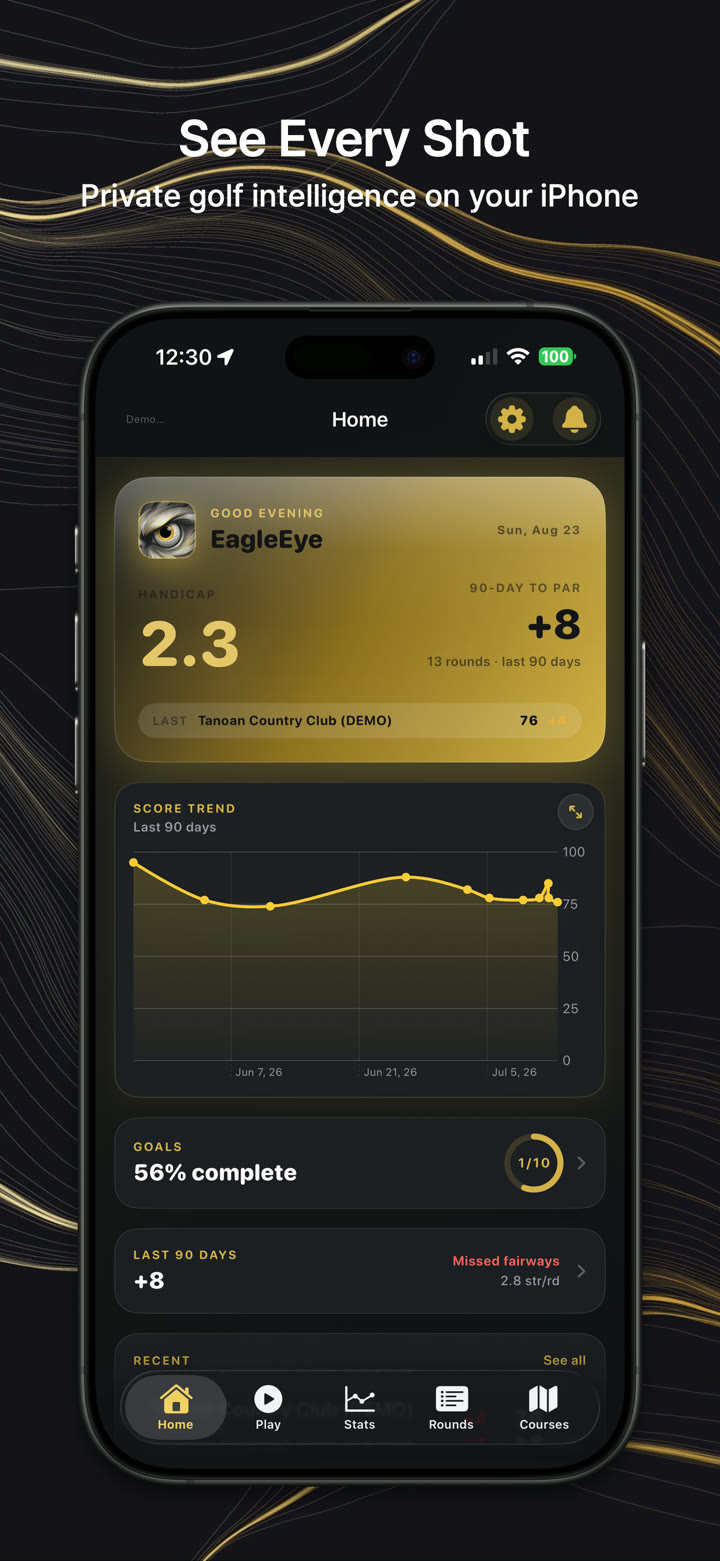
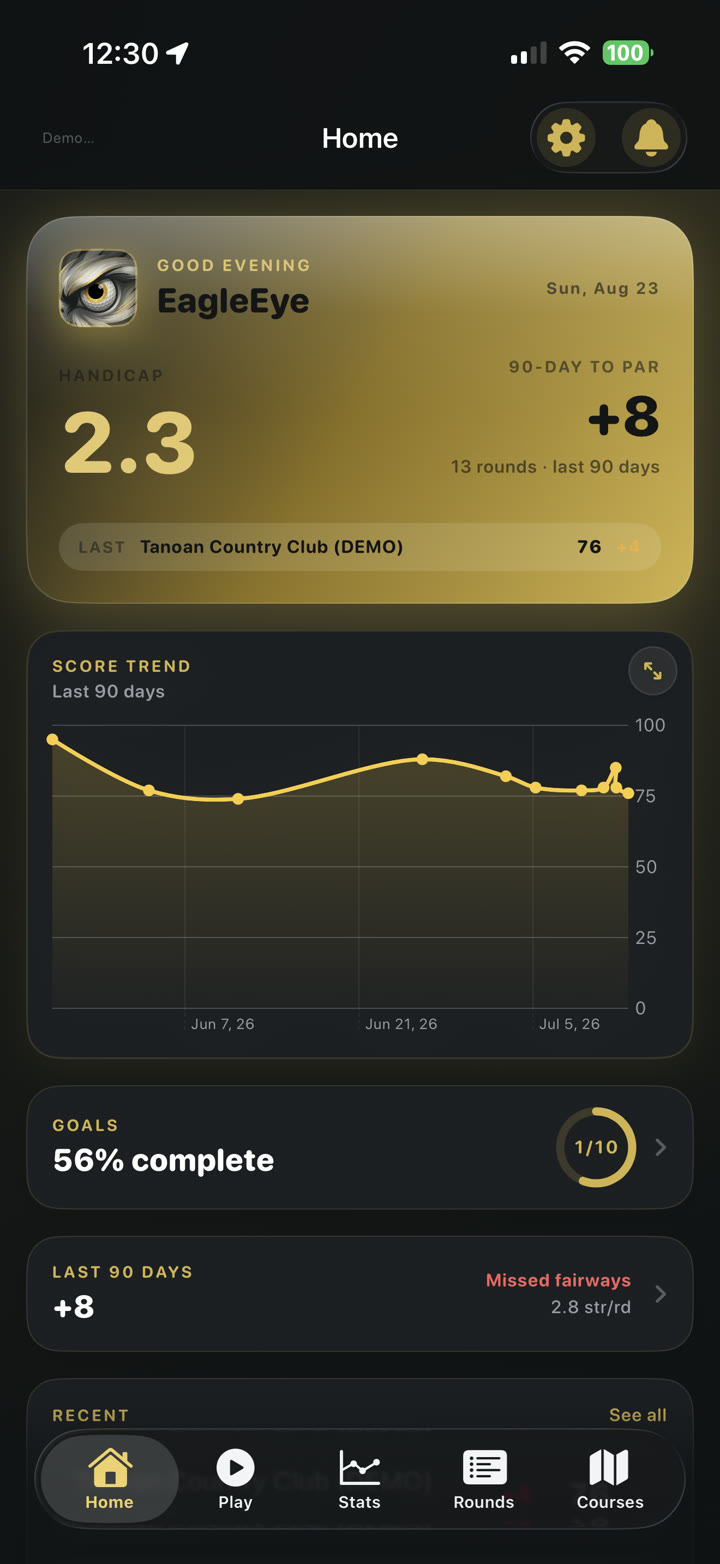
Use raw app screenshots and broader marketing copy
Replace framed App Store composites with unframed phone captures. Drop OSM-account language for no logins at all. Homepage sells flyover, deep stats, privacy, and one-time price.

diff --git a/index.html b/index.html
@@ -3,11 +3,11 @@
 <head>
   <meta charset="utf-8" />
   <meta name="viewport" content="width=device-width, initial-scale=1" />
-  <title>EagleEye — Golf GPS &amp; stats on iPhone</title>
-  <meta name="description" content="Personal golf scoring, GPS flyovers, and stats on your iPhone. Data stays on your device. No subscriptions, no ads." />
+  <title>EagleEye — See every shot. Master every round.</title>
+  <meta name="description" content="The golf app with no account, no ads, and no monthly fee. Satellite flyover of every hole and the deepest stats on iPhone — your game stays on your phone." />
   <link rel="canonical" href="https://eagleeyegolfapp.github.io/EagleEye/" />
   <meta property="og:title" content="EagleEye — See every shot. Master every round." />
-  <meta property="og:description" content="Golf GPS flyover and honest stats. No subscription. Rounds stay on your iPhone." />
+  <meta property="og:description" content="No account. No ads. No subscription. Satellite flyover and tour-level stats, on your iPhone." />
   <meta property="og:image" content="https://eagleeyegolfapp.github.io/EagleEye/assets/og.jpg" />
   <meta property="og:url" content="https://eagleeyegolfapp.github.io/EagleEye/" />
   <meta name="theme-color" content="#07080a" />
@@ -41,86 +41,87 @@
   <main>
     <section class="wrap hero">
       <div>
-        <p class="kicker">iPhone golf</p>
+        <p class="kicker">Golf, without the noise</p>
         <h1>See every shot.<br />Master every round.</h1>
         <p class="lede">
-          Personal golf scoring, GPS flyovers, and stats on your iPhone.
-          Data stays on your device. No subscriptions, no ads.
+          The most beautiful way to play and the most detailed way to improve —
+          with no account to create, no ads, and no monthly bill.
+          Your entire game lives on your iPhone.
         </p>
         <div class="cta-row">
           <a class="btn" href="https://apps.apple.com/app/id6793305657">Download on the App Store</a>
           <a class="btn btn-ghost" href="mailto:eagleeyegolfapp@gmail.com">Contact</a>
         </div>
-        <p class="fine">Free to try — 3 finished rounds or 60 holes. Then a one-time unlock.</p>
+        <p class="fine">Try it free. Unlock once — less than a single green fee, forever.</p>
       </div>
       <div class="phones" aria-hidden="false">
         <div class="device back">
-          <img src="assets/shot-stats.jpg" alt="EagleEye stats" />
+          <img src="assets/shot-home.jpg" alt="EagleEye home" />
         </div>
         <div class="device front">
-          <img src="assets/shot-home.jpg" alt="EagleEye Home on iPhone" />
+          <img src="assets/shot-flyover.jpg" alt="EagleEye satellite flyover of a golf hole" />
         </div>
       </div>
     </section>
 
     <div class="wrap">
       <div class="proof">
-        <div><strong>On your iPhone</strong><span>Rounds never leave this device unless you export them.</span></div>
-        <div><strong>No monthly bill</strong><span>Try the full app, then unlock once — not $15 every month.</span></div>
-        <div><strong>No OSM account</strong><span>Flyover uses public map data. You don’t create a login.</span></div>
+        <div><strong>No account. Ever.</strong><span>No sign-up, no login, no cloud profile. Open the app and play.</span></div>
+        <div><strong>No ads. No monthly fee.</strong><span>A one-time unlock — not a subscription that follows you forever.</span></div>
+        <div><strong>Yours alone</strong><span>Every round stays on this iPhone unless you choose to share it.</span></div>
       </div>
     </div>
 
     <section class="wrap section" id="flyover">
-      <h2>Satellite flyover of the hole</h2>
-      <p class="intro">GPS-powered Flyover shows the hole on satellite imagery — yardage, aim, and the green — without a cartoon map or an OpenStreetMap account.</p>
+      <h2>Flyover that feels like television golf</h2>
+      <p class="intro">Stand on the tee and see the entire hole from above — the real fairway, the real green, the real picture. Distances, the line, the wind. Strategy you can actually use.</p>
       <div class="grid-3">
         <article class="card">
           <div class="icon-dot">01</div>
-          <h3>See the hole</h3>
-          <p>Satellite view with gold distance lines, pin, and GPS when you want it. Zoom in for the green.</p>
+          <h3>The hole, not a drawing</h3>
+          <p>True satellite flyover of the hole you’re playing. Know what’s over the hill before you swing.</p>
         </article>
         <article class="card">
           <div class="icon-dot">02</div>
-          <h3>Courses on the phone</h3>
-          <p>Search the US course pack, tap Add, and the scorecard fills in. Flyover links when the layout is mapped.</p>
+          <h3>Every number that matters</h3>
+          <p>Yardages, plays-like, elevation, and the line to the green — right on the map, right when you need it.</p>
         </article>
         <article class="card">
           <div class="icon-dot">03</div>
-          <h3>Fast on the tee</h3>
-          <p>Tag the tee club you actually hit, where it finished, and move on. Built for a real round, not a desk.</p>
+          <h3>Courses, instantly</h3>
+          <p>Thousands of U.S. courses ready on your phone. Find it, add it, and you’re on the first tee.</p>
         </article>
       </div>
     </section>
 
     <section class="wrap section" id="stats">
-      <h2>Stats that don’t cheat</h2>
-      <p class="intro">GIR, fairways, misses, leaks, and club splits — counted only when you tag them. Untagged holes and “No chance” layups are not fake misses.</p>
+      <h2>Stats deep enough to change how you play</h2>
+      <p class="intro">Not a few totals on a scorecard. EagleEye shows exactly where strokes walk away — off the tee, into the green, on the putting surface — so practice has a target, not a guess.</p>
       <div class="shots">
         <figure>
           <div class="device" style="width:100%;max-width:280px;margin:0 auto;transform:none">
             <img src="assets/shot-home.jpg" alt="EagleEye home dashboard" />
           </div>
-          <figcaption>Home — form, goals, next round</figcaption>
+          <figcaption>Your season, at a glance</figcaption>
         </figure>
         <figure>
           <div class="device" style="width:100%;max-width:280px;margin:0 auto;transform:none">
             <img src="assets/shot-flyover.jpg" alt="EagleEye hole flyover" />
           </div>
-          <figcaption>Flyover — the hole, not a cartoon</figcaption>
+          <figcaption>Flyover of the hole you’re on</figcaption>
         </figure>
         <figure>
           <div class="device" style="width:100%;max-width:280px;margin:0 auto;transform:none">
-            <img src="assets/shot-stats.jpg" alt="EagleEye approach stats" />
+            <img src="assets/shot-stats.jpg" alt="EagleEye stroke analysis" />
           </div>
-          <figcaption>Approach &amp; GIR — tagged honestly</figcaption>
+          <figcaption>Where you actually lose shots</figcaption>
         </figure>
       </div>
     </section>
 
     <section class="wrap section">
-      <h2>Your game. Your data.</h2>
-      <p class="intro">No EagleEye cloud account. Optional location, camera, and photos only when you turn them on. Export a backup from Settings whenever you want.</p>
+      <h2>Private. Yours. Done.</h2>
+      <p class="intro">No account to create. No feed. No one mining your rounds. Download free, try the full experience, then unlock once if you love it — still no ads, still no subscription.</p>
       <div class="cta-row">
         <a class="btn" href="https://apps.apple.com/app/id6793305657">Get EagleEye</a>
         <a class="btn btn-ghost" href="privacy.html">Privacy Policy</a>

diff --git a/privacy.html b/privacy.html
@@ -131,8 +131,8 @@
       </p>
       <ul>
         <li><strong>Weather:</strong> Open-Meteo (or similar weather API used by the App) for conditions snapshots.</li>
-        <li><strong>Course search:</strong> an on-device US course pack from OpenGolfAPI (OpenStreetMap-derived, ODbL). Adding a course may request a live scorecard from OpenGolfAPI. Results you add stay in your private local library. You do not create an OpenGolf or OpenStreetMap account to use this.</li>
-        <li><strong>Flyover / maps:</strong> OpenStreetMap-related queries (for example Overpass) when associating hole maps; map display may use Apple MapKit. No OpenStreetMap account is required. Map data © OpenStreetMap contributors where applicable.</li>
+        <li><strong>Course search:</strong> an on-device US course pack. Adding a course may request a live scorecard so the holes fill in. Results you add stay in your private local library. EagleEye never asks you to create an account or log in — with us or with anyone else — to search or add a course.</li>
+        <li><strong>Flyover / maps:</strong> public map data is used to draw hole layouts; the satellite picture may use Apple MapKit. You never sign in. Map data © OpenStreetMap contributors where applicable.</li>
         <li><strong>Course invite links:</strong> If you share a course, a short-lived or hosted web page may be used so Messages can show a preview; opening the link can hand off into EagleEye on devices that have the App.</li>
       </ul>
       <p>Third parties process data under their own privacy policies.</p>

diff --git a/support.html b/support.html
@@ -83,10 +83,10 @@
       </details>
 
       <details>
-        <summary>Do I need an OpenStreetMap account?</summary>
+        <summary>Do I need to create an account?</summary>
         <p>
-          No. Flyover maps associate from the course library using public OpenStreetMap data.
-          You do not create or pair an OSM account inside EagleEye.
+          No. EagleEye has no sign-up and no login — not with us, and not with any map or course service.
+          Open the app and play. Flyover and course search work without an account of any kind.
         </p>
       </details>
 
